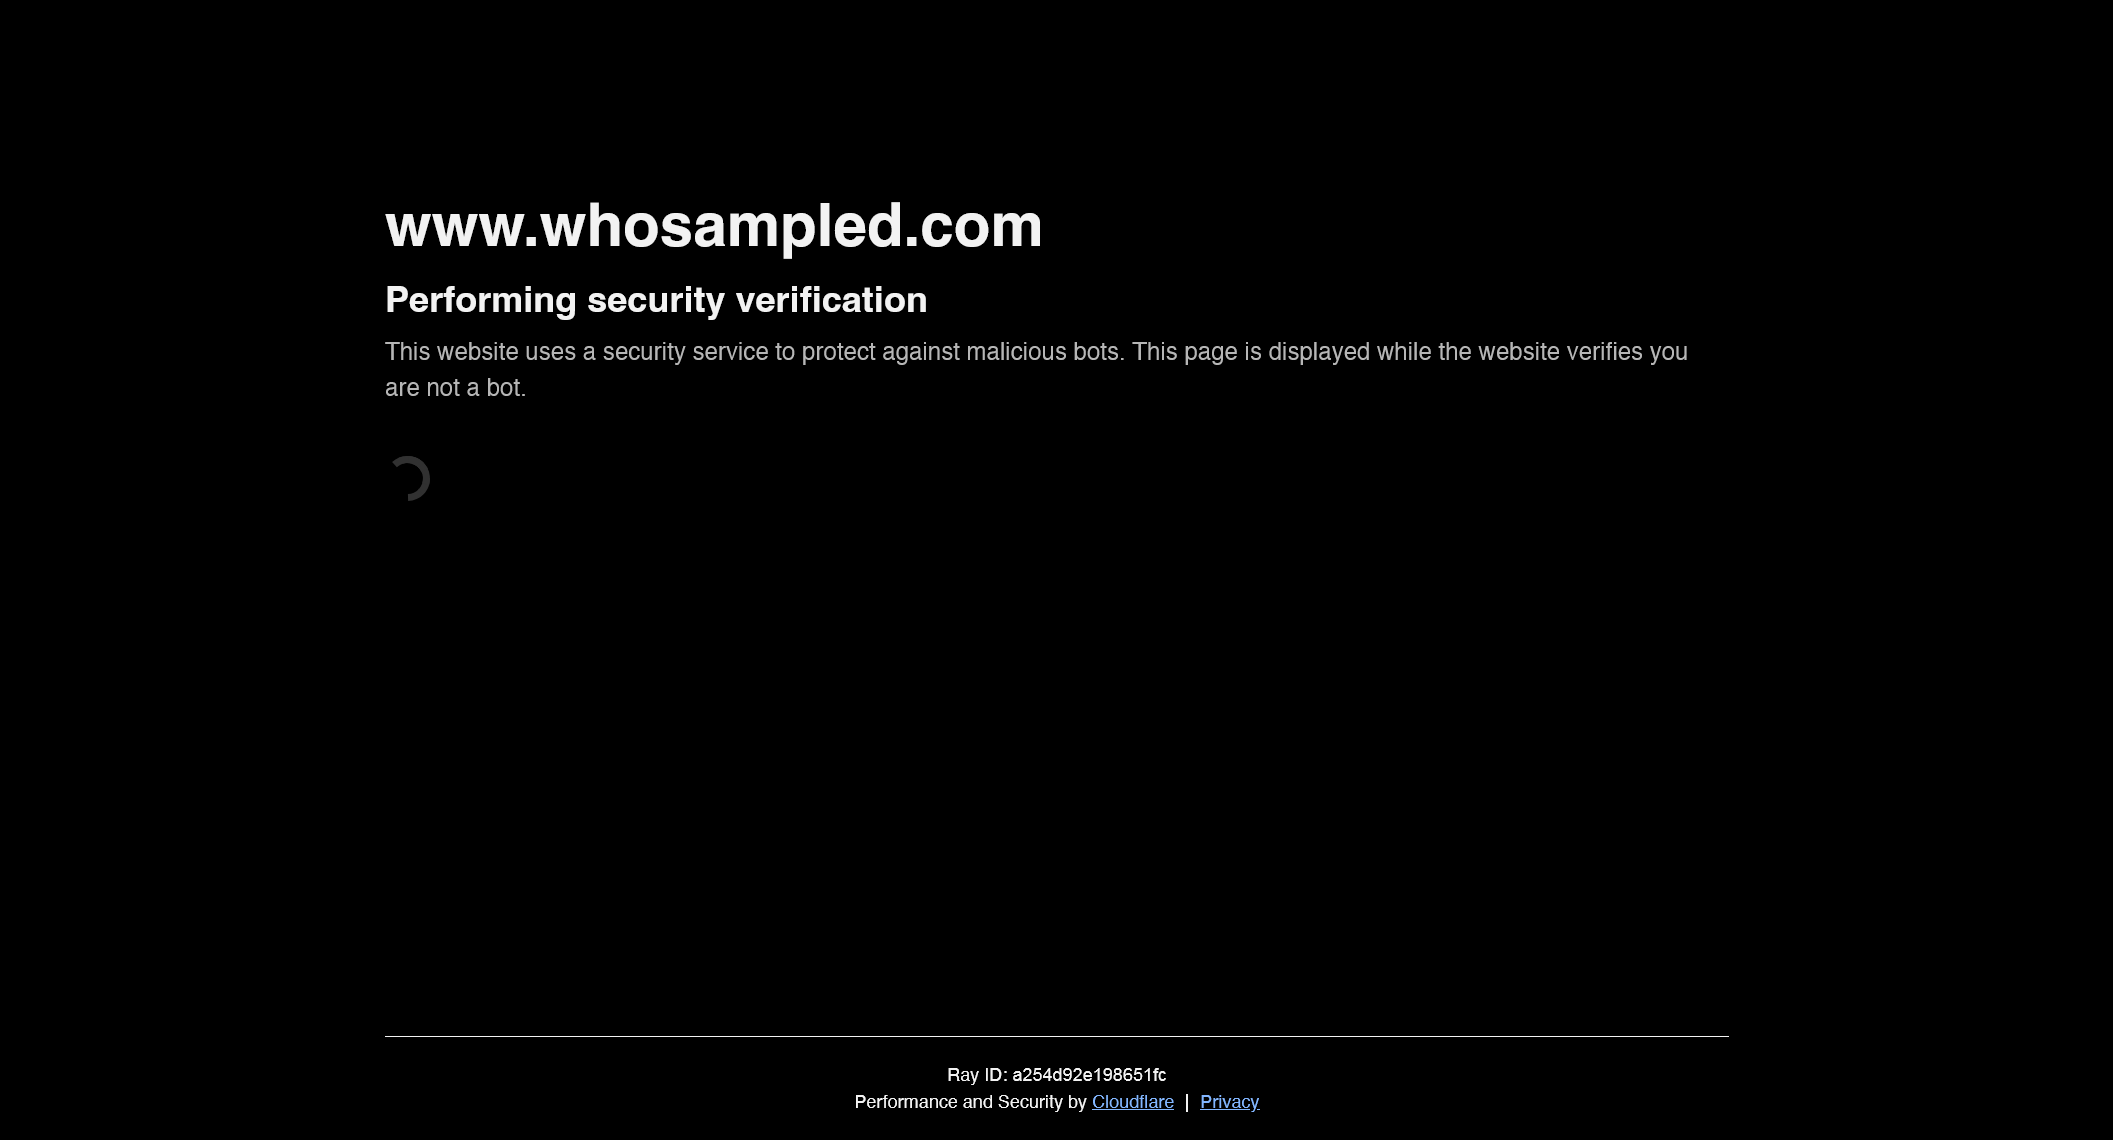
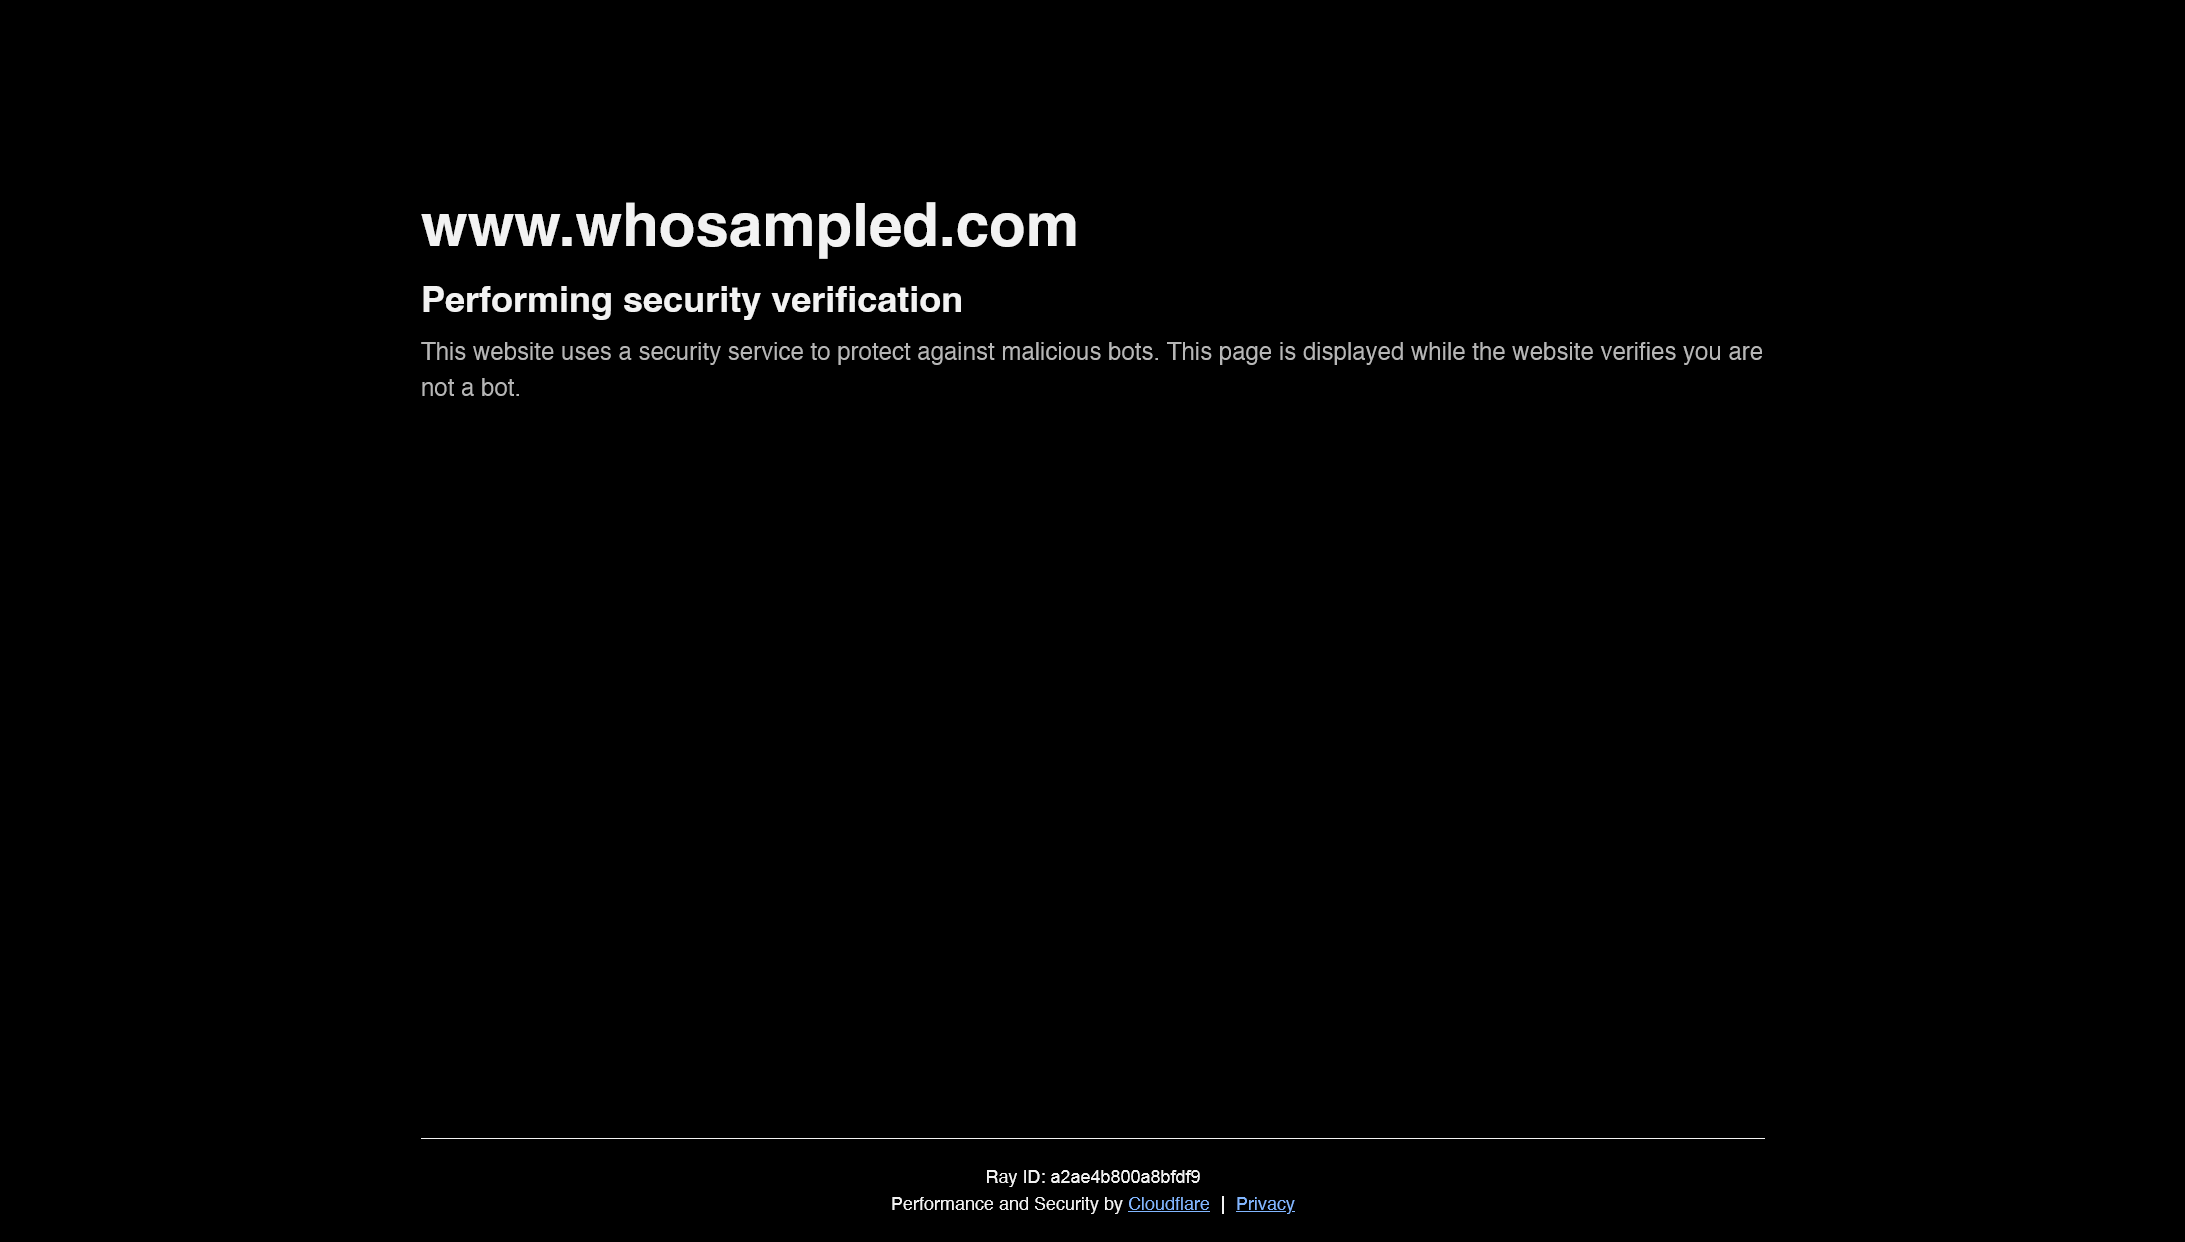
set up agents.md

Changed region(s): [[0.1874, 0.1535, 0.8121, 0.3684], [0.4061, 0.9211, 0.5935, 0.9825], [0.1874, 0.3991, 0.2186, 0.4298]]

diff --git a/cookie_reuse_test.py b/cookie_reuse_test.py
@@ -21,7 +21,7 @@ from curl_cffi import requests as cf_requests
 from camoufox.sync_api import Camoufox
 
 ARTIST_A = "Structure"   # solved with the browser
-ARTIST_B = "2Pac"        # fetched with plain HTTP using the reused cookie
+ARTIST_B = "Kanye-West"        # fetched with plain HTTP using the reused cookie
 
 BASE = "https://www.whosampled.com"
 

diff --git a/docs/agents/issue-tracker.md b/docs/agents/issue-tracker.md
@@ -1,0 +1,45 @@
+# Issue tracker: GitHub
+
+Issues and specs for this repo live as GitHub issues. Use the `gh` CLI for all operations.
+
+## Conventions
+
+- **Create an issue**: `gh issue create --title "..." --body "..."`. Use a heredoc for multi-line bodies.
+- **Read an issue**: `gh issue view <number> --comments`, filtering comments by `jq` and also fetching labels.
+- **List issues**: `gh issue list --state open --json number,title,body,labels,comments --jq '[.[] | {number, title, body, labels: [.labels[].name], comments: [.comments[].body]}]'` with appropriate `--label` and `--state` filters.
+- **Comment on an issue**: `gh issue comment <number> --body "..."`
+- **Apply / remove labels**: `gh issue edit <number> --add-label "..."` / `--remove-label "..."`
+- **Close**: `gh issue close <number> --comment "..."`
+
+Infer the repo from `git remote -v` - `gh` does this automatically when run inside a clone.
+
+## Pull requests as a triage surface
+
+**PRs as a request surface: no.** _(Set to `yes` if this repo treats external PRs as feature requests; `/triage` reads this flag.)_
+
+When set to `yes`, PRs run through the same labels and states as issues, using the `gh pr` equivalents:
+
+- **Read a PR**: `gh pr view <number> --comments` and `gh pr diff <number>` for the diff.
+- **List external PRs for triage**: `gh pr list --state open --json number,title,body,labels,author,authorAssociation,comments` then keep only `authorAssociation` of `CONTRIBUTOR`, `FIRST_TIME_CONTRIBUTOR`, or `NONE` and drop `OWNER`, `MEMBER`, and `COLLABORATOR`.
+- **Comment / label / close**: `gh pr comment`, `gh pr edit --add-label`/`--remove-label`, `gh pr close`.
+
+GitHub shares one number space across issues and PRs, so a bare `#42` may be either - resolve with `gh pr view 42` and fall back to `gh issue view 42`.
+
+## When a skill says "publish to the issue tracker"
+
+Create a GitHub issue.
+
+## When a skill says "fetch the relevant ticket"
+
+Run `gh issue view <number> --comments`.
+
+## Wayfinding operations
+
+Used by `/wayfinder`. The **map** is a single issue with **child** issues as tickets.
+
+- **Map**: a single issue labelled `wayfinder:map`, holding the Notes / Decisions-so-far / Fog body. `gh issue create --label wayfinder:map`.
+- **Child ticket**: an issue linked to the map as a GitHub sub-issue (`gh api` on the sub-issues endpoint). Where sub-issues are not enabled, add the child to a task list in the map body and put `Part of #<map>` at the top of the child body. Labels: `wayfinder:<type>` (`research`/`prototype`/`grilling`/`task`). Once claimed, the ticket is assigned to the driving developer.
+- **Blocking**: GitHub's **native issue dependencies** - the canonical, UI-visible representation. Add an edge with `gh api --method POST repos/<owner>/<repo>/issues/<child>/dependencies/blocked_by -F issue_id=<blocker-db-id>`, where `<blocker-db-id>` is the blocker's numeric **database ID** (`gh api repos/<owner>/<repo>/issues/<n> --jq .id`, not the `#number` or `node_id`). GitHub reports `issue_dependencies_summary.blocked_by` for open blockers only. Where dependencies are not available, fall back to a `Blocked by: #<n>, #<n>` line at the top of the child body. A ticket is unblocked when every blocker is closed.
+- **Frontier query**: list the map's open children (`gh issue list --state open`, scoped to the map's sub-issues or task list), drop any with an open blocker (`issue_dependencies_summary.blocked_by > 0`, or an open issue in the `Blocked by` line) or an assignee; first in map order wins.
+- **Claim**: `gh issue edit <n> --add-assignee @me` - the session's first write.
+- **Resolve**: `gh issue comment <n> --body "<answer>"`, then `gh issue close <n>`, then append a context pointer with its link to the map's Decisions-so-far.

diff --git a/docs/agents/domain.md b/docs/agents/domain.md
@@ -1,0 +1,34 @@
+# Domain Docs
+
+How the engineering skills should consume this repo's domain documentation when exploring the codebase.
+
+## Before exploring, read these
+
+- **`CONTEXT.md`** at the repo root.
+- **`docs/adr/`** - read ADRs that touch the area you are about to work in.
+
+If either location does not exist, **proceed silently**. Do not flag its absence or suggest creating it upfront. The `/domain-modeling` skill, reached through `/grill-with-docs` and `/improve-codebase-architecture`, creates these files lazily when terms or decisions are resolved.
+
+## File structure
+
+This is a single-context repository:
+
+```text
+/
+|-- CONTEXT.md
+|-- docs/
+|   `-- adr/
+|       |-- 0001-event-sourced-orders.md
+|       `-- 0002-postgres-for-write-model.md
+`-- src/
+```
+
+## Use the glossary's vocabulary
+
+When output names a domain concept in an issue title, refactor proposal, hypothesis, or test name, use the term defined in `CONTEXT.md`. Do not drift to synonyms the glossary explicitly avoids.
+
+If the required concept is not in the glossary, reconsider whether the terminology belongs to the project or note the genuine gap for `/domain-modeling`.
+
+## Flag ADR conflicts
+
+If output contradicts an existing ADR, surface the conflict explicitly instead of silently overriding it:

diff --git a/AGENTS.md b/AGENTS.md
@@ -1,0 +1,9 @@
+## Agent skills
+
+### Issue tracker
+
+Issues and specs are tracked in GitHub Issues. See `docs/agents/issue-tracker.md`.
+
+### Domain docs
+
+This repository uses a single-context domain documentation layout. See `docs/agents/domain.md`.
